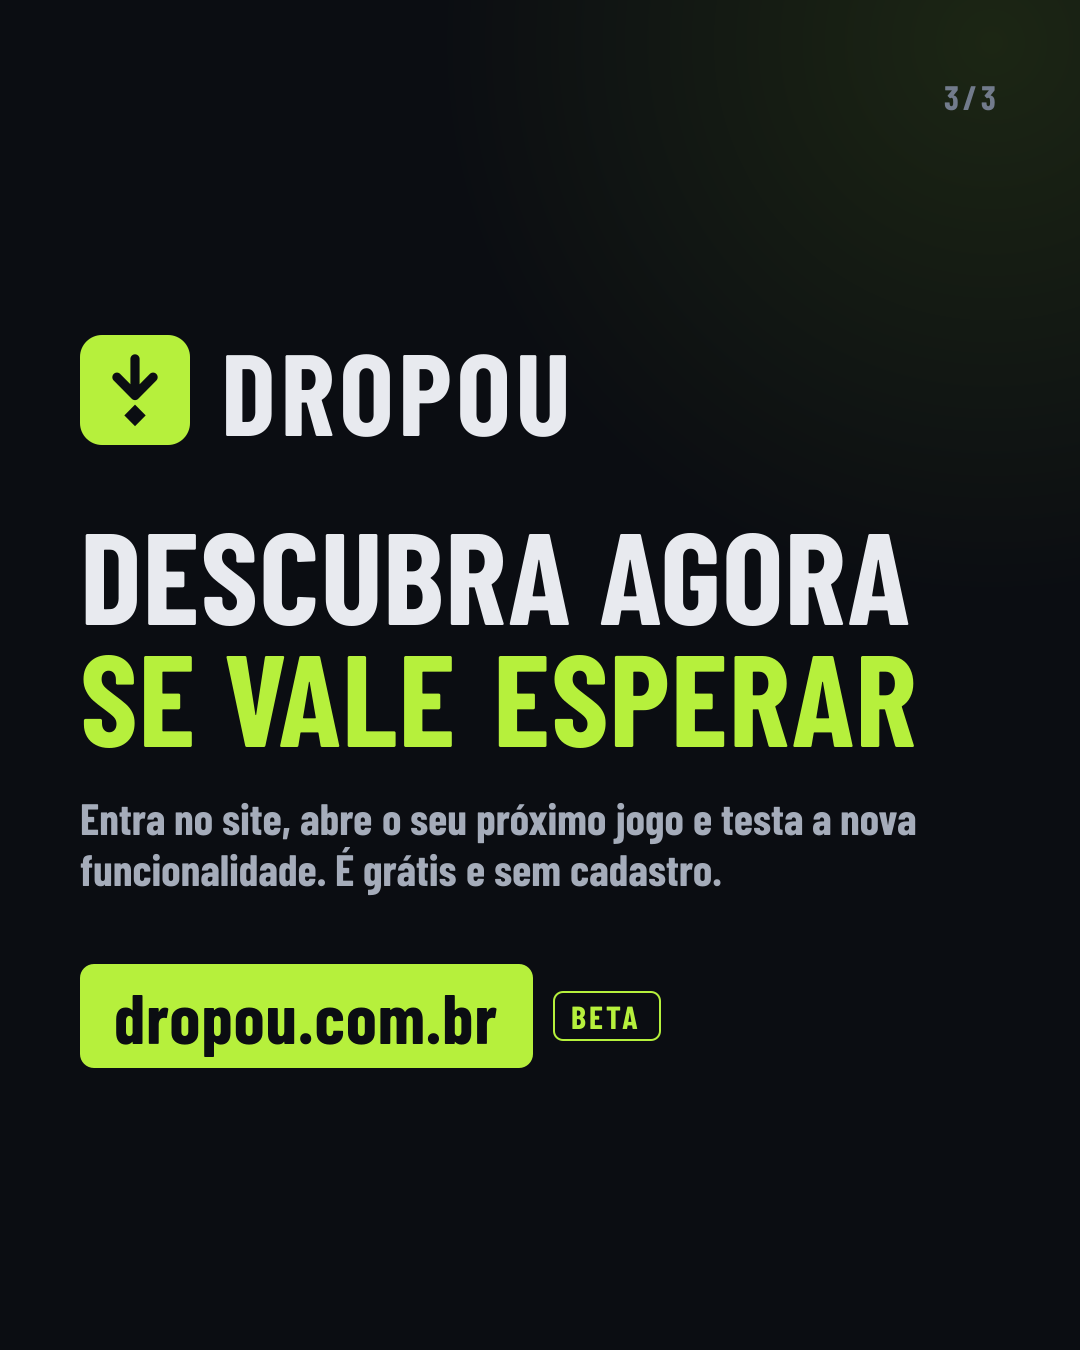
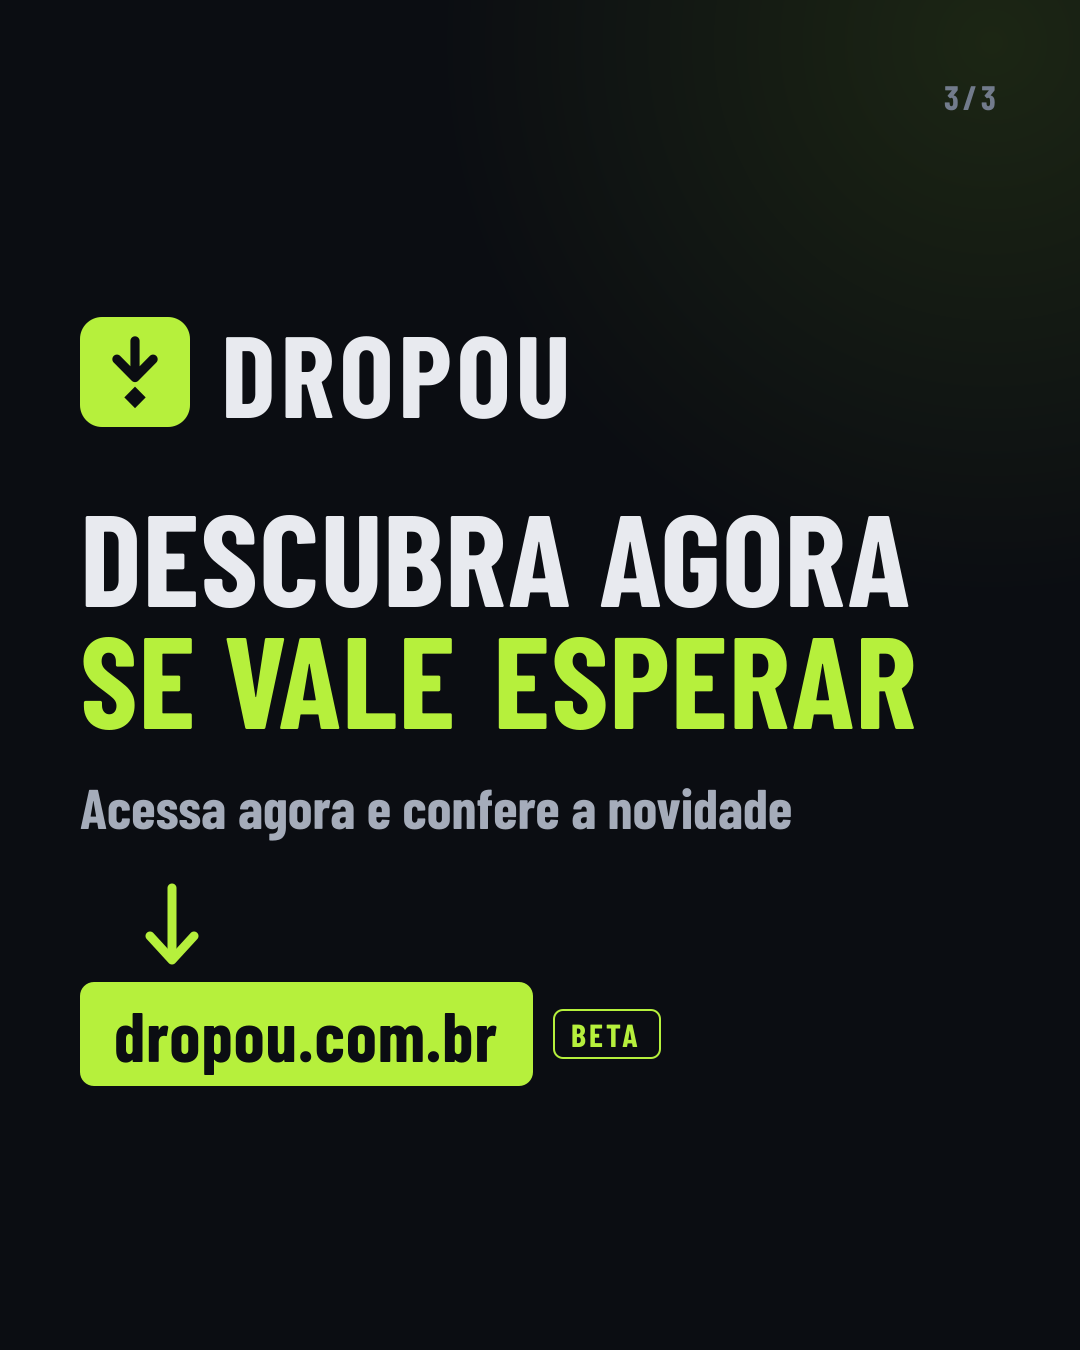
Media kit: texto final do carrossel com seta apontando para o link

diff --git a/scripts/instagram-vale-esperar.tsx b/scripts/instagram-vale-esperar.tsx
@@ -236,8 +236,14 @@ const buildSlides = (wait: Example, buy: Example): ReactNode[] => [
     <div style={{ display: "flex", marginTop: 64 }}>
       <Big size={130} lines={[["Descubra agora"], ["se vale esperar", true]]} />
     </div>
-    <Sub size={44}>Entra no site, abre o seu próximo jogo e testa a nova funcionalidade. É grátis e sem cadastro.</Sub>
-    <div style={{ display: "flex", alignItems: "center", gap: 20, marginTop: 70 }}>
+    <Sub size={56}>Acessa agora e confere a novidade</Sub>
+    <div style={{ display: "flex", marginTop: 44, marginLeft: 60 }}>
+      <svg width={64} height={86} viewBox="0 0 64 86" fill="none" stroke={C.accent} strokeWidth={9} strokeLinecap="round" strokeLinejoin="round">
+        <path d="M32 6V76" />
+        <path d="M10 54L32 78L54 54" />
+      </svg>
+    </div>
+    <div style={{ display: "flex", alignItems: "center", gap: 20, marginTop: 14 }}>
       <div style={{ display: "flex", fontSize: 70, background: C.accent, color: C.ink, borderRadius: 14, padding: "10px 34px", letterSpacing: 1 }}>{BRAND.domain}</div>
       <div style={{ display: "flex", fontSize: 32, letterSpacing: 3, textTransform: "uppercase", border: `2px solid ${C.accent}`, color: C.accent, borderRadius: 10, padding: "4px 16px" }}>beta</div>
     </div>
